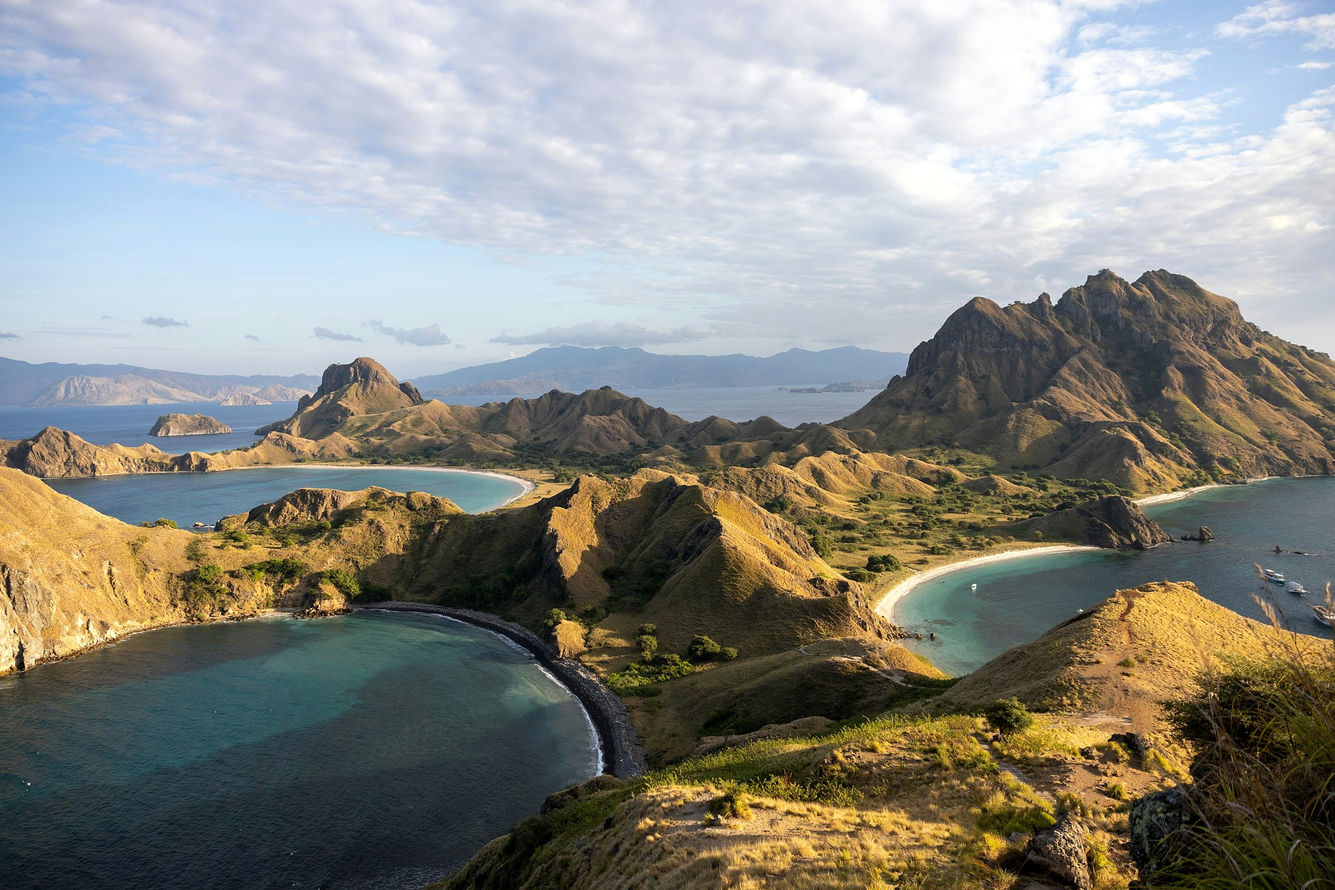
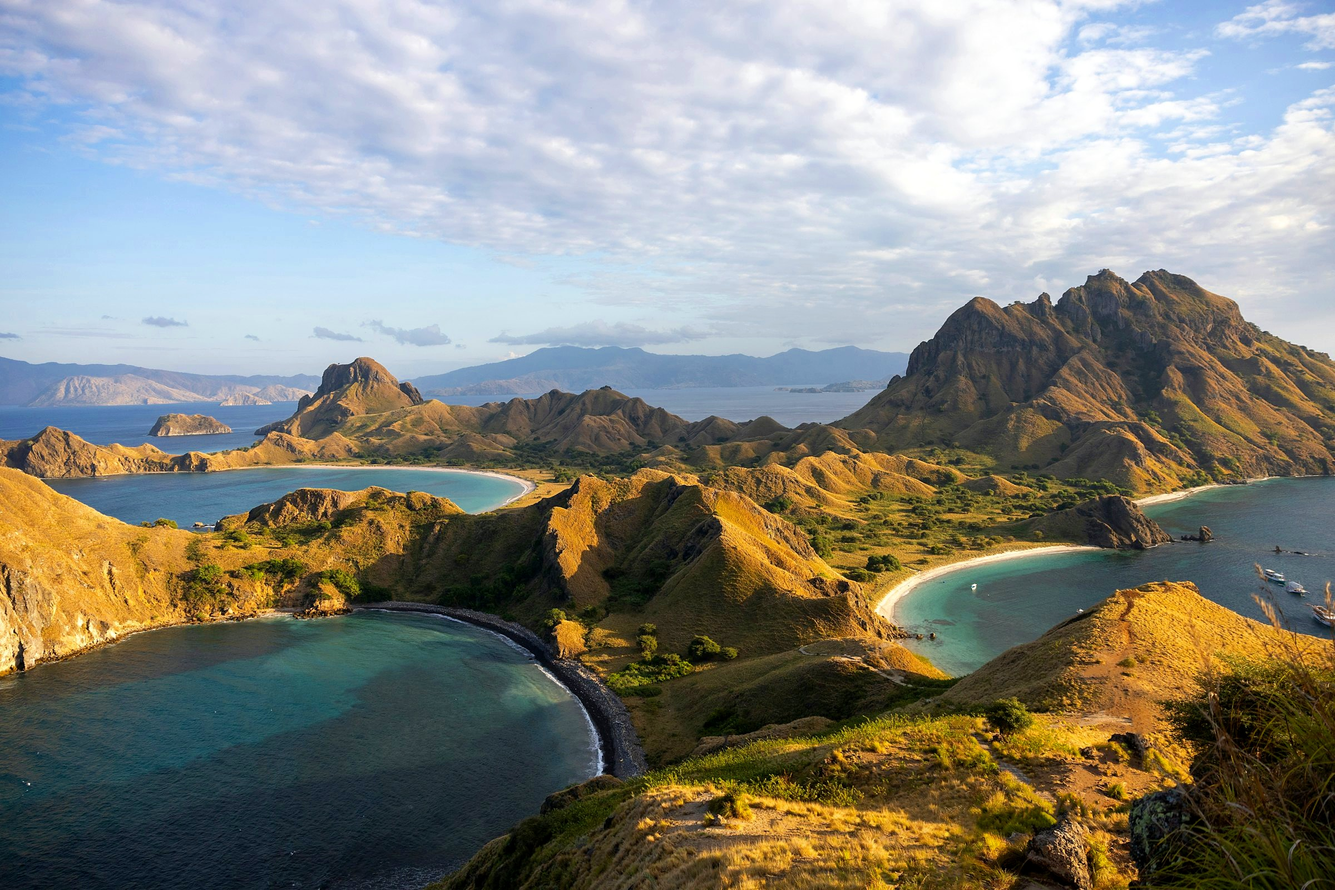
Bring back vibrant color on the hero photo, without the zoom artifacts
The zoom artifacts in the earlier vibrant pass came from CLAHE (local/
adaptive contrast), not from saturation itself. This keeps CLAHE out for
good, but restores a uniform saturation lift on top of the clean contrast
+ tight-radius sharpen from last time, so color is vivid again while
detail stays artifact-free when zoomed in.

diff --git a/id/index.html b/id/index.html
@@ -13,8 +13,8 @@
 <link rel="preconnect" href="https://fonts.gstatic.com" crossorigin>
 <link rel="stylesheet" href="https://fonts.googleapis.com/css2?family=Cormorant+Garamond:ital,wght@0,500;0,600;1,500&family=Jost:wght@400;500&display=swap">
 <link rel="stylesheet" href="../assets/css/style.css?v=0841e373">
-<link rel="preload" as="image" href="../assets/img/padar-island-phone.jpg?v=b5f9d333" media="(max-width: 960px)" fetchpriority="high">
-<link rel="preload" as="image" href="../assets/img/padar-island.jpg?v=ee367852" media="(min-width: 961px)" fetchpriority="high">
+<link rel="preload" as="image" href="../assets/img/padar-island-phone.jpg?v=e8b37fac" media="(max-width: 960px)" fetchpriority="high">
+<link rel="preload" as="image" href="../assets/img/padar-island.jpg?v=1a37c030" media="(min-width: 961px)" fetchpriority="high">
 </head>
 <body class="home">
 <a class="skip" href="#main">Skip to content</a>
@@ -45,7 +45,7 @@
 <section id="story" data-scene="0" aria-label="Komodo &amp; Ko.">
  <i class="snap" data-stop="0"></i><i class="snap" data-stop="0.26"></i><i class="snap" data-stop="0.52"></i><i class="snap" data-stop="0.86"></i>
  <div class="stage">
-  <div class="cam"><picture><source media="(max-width: 960px)" srcset="../assets/img/padar-island-phone.jpg?v=b5f9d333"><img class="plate" src="../assets/img/padar-island.jpg?v=ee367852" fetchpriority="high" alt="View over the bays of Padar Island in Komodo National Park, with boats at anchor"></picture><div class="mist"></div></div>
+  <div class="cam"><picture><source media="(max-width: 960px)" srcset="../assets/img/padar-island-phone.jpg?v=e8b37fac"><img class="plate" src="../assets/img/padar-island.jpg?v=1a37c030" fetchpriority="high" alt="View over the bays of Padar Island in Komodo National Park, with boats at anchor"></picture><div class="mist"></div></div>
   <div class="veil"></div>
   <div class="shade"></div>
 
@@ -54,7 +54,7 @@
     <h1><span class="ln"><span>Anda Menjelajah. Sisanya Kami yang Urus</span></span></h1>
   </div></div>
 
-  <div class="cam camF" aria-hidden="true"><img class="plateF" src="../assets/img/padar-island.jpg?v=ee367852" loading="lazy" alt=""></div>
+  <div class="cam camF" aria-hidden="true"><img class="plateF" src="../assets/img/padar-island.jpg?v=1a37c030" loading="lazy" alt=""></div>
 
   <div class="layer L1">
     <div class="veil-b"></div>

diff --git a/index.html b/index.html
@@ -13,8 +13,8 @@
 <link rel="preconnect" href="https://fonts.gstatic.com" crossorigin>
 <link rel="stylesheet" href="https://fonts.googleapis.com/css2?family=Cormorant+Garamond:ital,wght@0,500;0,600;1,500&family=Jost:wght@400;500&display=swap">
 <link rel="stylesheet" href="assets/css/style.css?v=0841e373">
-<link rel="preload" as="image" href="assets/img/padar-island-phone.jpg?v=b5f9d333" media="(max-width: 960px)" fetchpriority="high">
-<link rel="preload" as="image" href="assets/img/padar-island.jpg?v=ee367852" media="(min-width: 961px)" fetchpriority="high">
+<link rel="preload" as="image" href="assets/img/padar-island-phone.jpg?v=e8b37fac" media="(max-width: 960px)" fetchpriority="high">
+<link rel="preload" as="image" href="assets/img/padar-island.jpg?v=1a37c030" media="(min-width: 961px)" fetchpriority="high">
 </head>
 <body class="home">
 <a class="skip" href="#main">Skip to content</a>
@@ -45,7 +45,7 @@
 <section id="story" data-scene="0" aria-label="Komodo &amp; Ko.">
  <i class="snap" data-stop="0"></i><i class="snap" data-stop="0.26"></i><i class="snap" data-stop="0.52"></i><i class="snap" data-stop="0.86"></i>
  <div class="stage">
-  <div class="cam"><picture><source media="(max-width: 960px)" srcset="assets/img/padar-island-phone.jpg?v=b5f9d333"><img class="plate" src="assets/img/padar-island.jpg?v=ee367852" fetchpriority="high" alt="View over the bays of Padar Island in Komodo National Park, with boats at anchor"></picture><div class="mist"></div></div>
+  <div class="cam"><picture><source media="(max-width: 960px)" srcset="assets/img/padar-island-phone.jpg?v=e8b37fac"><img class="plate" src="assets/img/padar-island.jpg?v=1a37c030" fetchpriority="high" alt="View over the bays of Padar Island in Komodo National Park, with boats at anchor"></picture><div class="mist"></div></div>
   <div class="veil"></div>
   <div class="shade"></div>
 
@@ -54,7 +54,7 @@
     <h1><span class="ln"><span>You Explore. We Handle the Rest</span></span></h1>
   </div></div>
 
-  <div class="cam camF" aria-hidden="true"><img class="plateF" src="assets/img/padar-island.jpg?v=ee367852" loading="lazy" alt=""></div>
+  <div class="cam camF" aria-hidden="true"><img class="plateF" src="assets/img/padar-island.jpg?v=1a37c030" loading="lazy" alt=""></div>
 
   <div class="layer L1">
     <div class="veil-b"></div>

diff --git a/_build/vibrant_hero.py b/_build/vibrant_hero.py
@@ -1,11 +1,14 @@
 # -*- coding: utf-8 -*-
-"""One-off tool: a light touch on the hero photo — real detail and clarity,
-not a color grade. The first pass (strong CLAHE + saturation) looked punchy
-but stopped looking like the real island, and showed artifacts when zoomed.
-This version barely touches color (a small, even contrast lift only — no
-CLAHE, no saturation push) and spends its effort on a tight, small-radius
-unsharp mask that sharpens actual texture (grass, rock) without the big soft
-halos a wide-radius sharpen leaves around mountain silhouettes.
+"""One-off tool for the hero photo. Two earlier passes taught us what each
+knob actually does:
+  - CLAHE (local/adaptive contrast) was what caused the "weird when zoomed"
+    artifacts — it forces contrast per-tile, which reads as fake/patchy up
+    close. Left out entirely, on purpose.
+  - A plain, uniform saturation lift is what makes the colors read as vivid
+    island colors instead of the real haze — that part was never the
+    problem, so it's back, just dialed to a level that still looks real.
+  - A tight, small-radius unsharp mask sharpens actual texture (grass, rock)
+    without the big soft halos a wide-radius sharpen leaves on skylines.
 """
 import sys
 
@@ -13,12 +16,17 @@ import cv2
 import numpy as np
 
 
-def process(path_in, path_out, contrast=1.035, sharpen=0.45, radius=1.1):
+def process(path_in, path_out, sat_mult=1.3, contrast=1.045, sharpen=0.45, radius=1.1):
     img = cv2.imread(path_in).astype(np.float32)
 
-    # gentle, even S-curve — no CLAHE, so no locally-forced "fake HDR" contrast
+    # even, global S-curve — no CLAHE, so no per-tile "fake HDR" patchiness
     img = (img - 127.5) * contrast + 127.5
     img = np.clip(img, 0, 255).astype(np.uint8)
+
+    # uniform saturation lift (HSV), not local — same effect everywhere in frame
+    hsv = cv2.cvtColor(img, cv2.COLOR_BGR2HSV).astype(np.float32)
+    hsv[:, :, 1] = np.clip(hsv[:, :, 1] * sat_mult, 0, 255)
+    img = cv2.cvtColor(hsv.astype(np.uint8), cv2.COLOR_HSV2BGR)
 
     # small-radius unsharp mask: sharpens fine texture, not big halos on skylines
     blur = cv2.GaussianBlur(img, (0, 0), radius)
